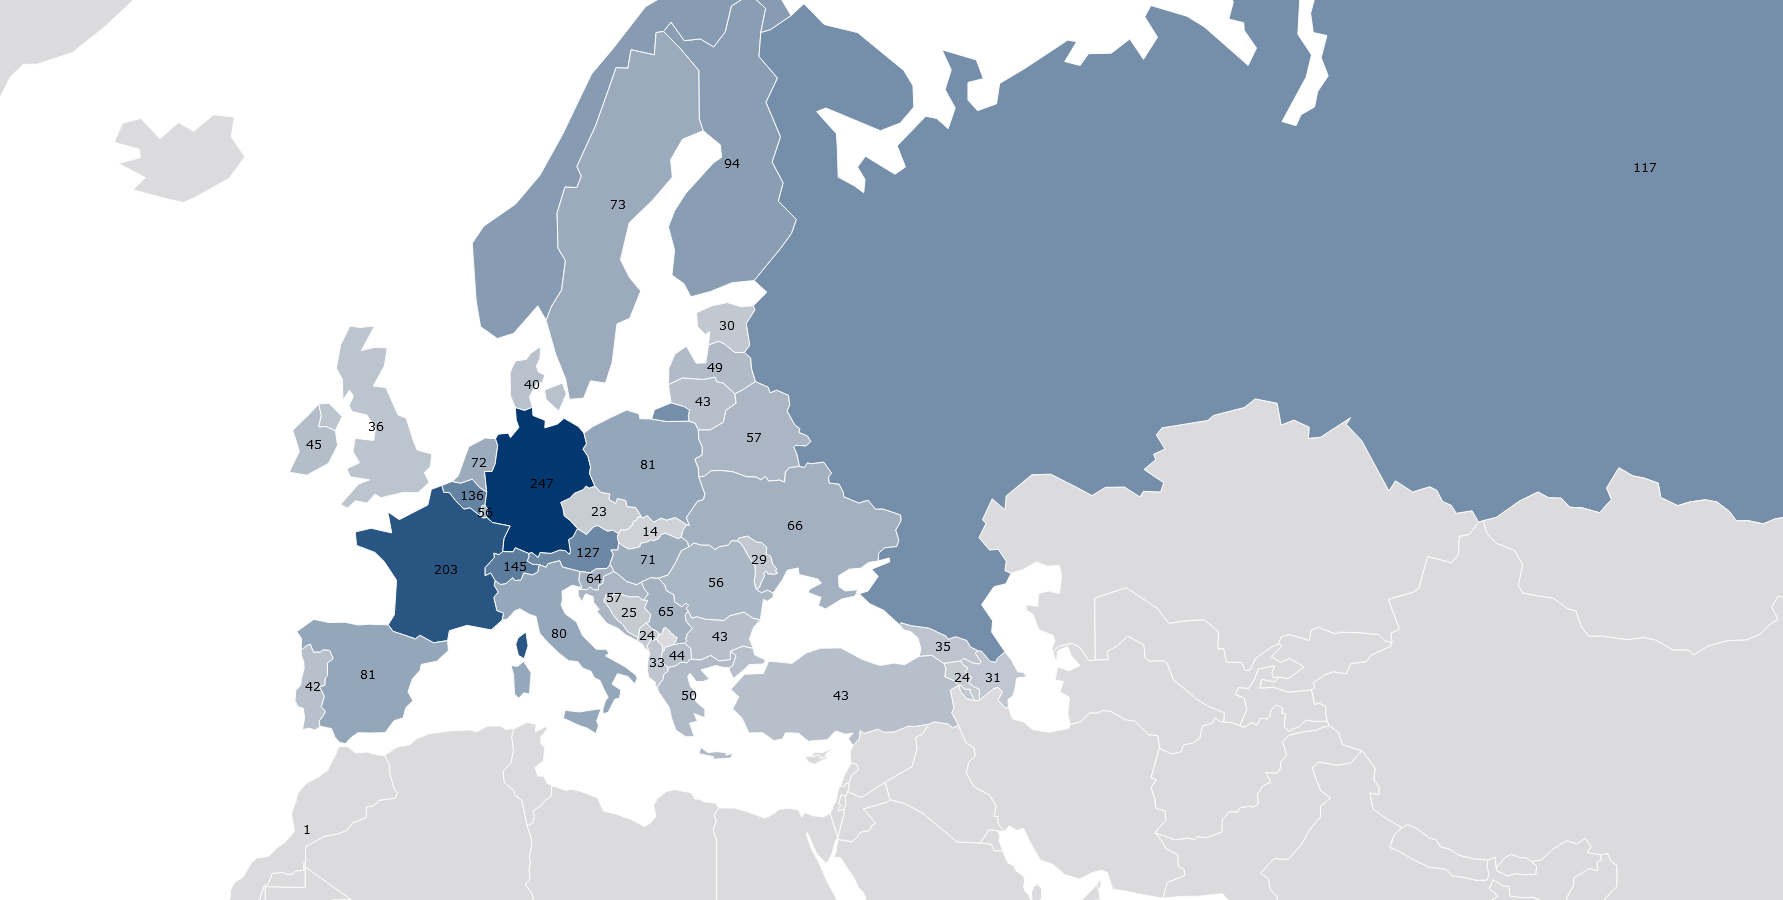
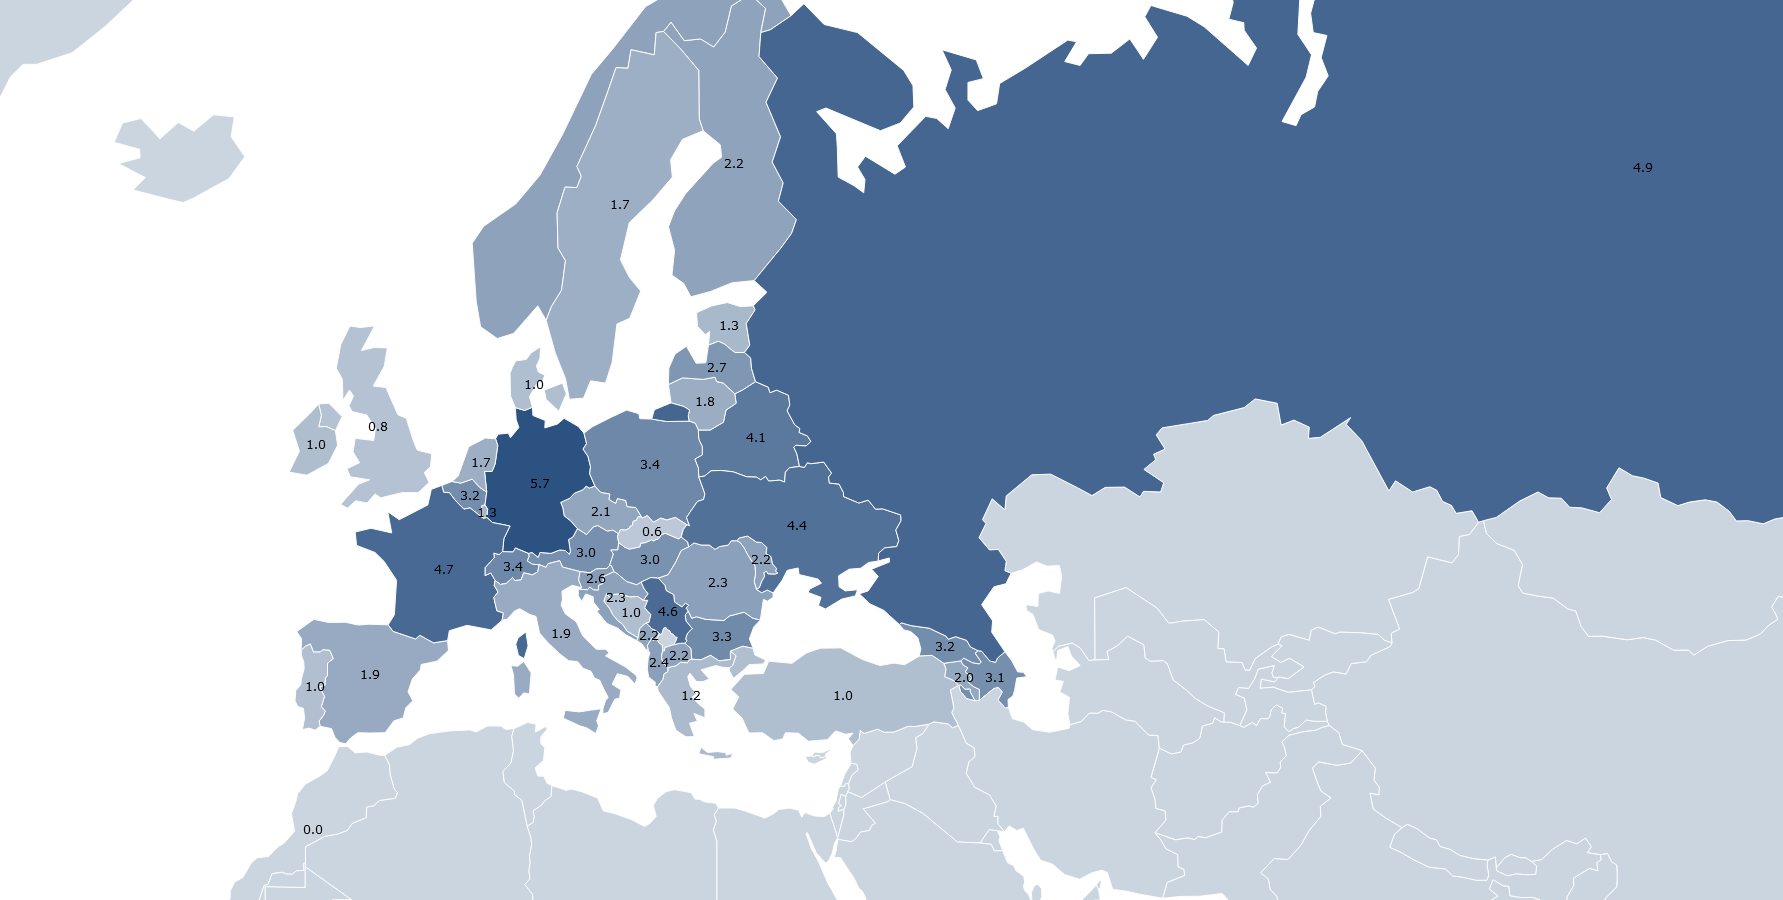
Tweak colors and switch font family

diff --git a/public/index.html b/public/index.html
@@ -4,6 +4,7 @@
   <meta charset="utf-8">
   <meta name="viewport" content="width=device-width">
   <title>Eurovision final votes neighbour data</title>
+  <link rel="stylesheet" href="style.css">
 </head>
 <body>
   <h1># Received Votes from Neighbour countries / Years participating</h1>

diff --git a/public/data.js b/public/data.js
@@ -56,7 +56,7 @@ const maxValue = Math.max.apply(null, values);
 const paletteScale = d3.scale
   .linear()
   .domain([minValue, maxValue])
-  .range(['#DBDBDD', '#02386F']);
+  .range(['#CBD5E0', '#2C5282']);
 
 const dataset = {};
 

diff --git a/public/app.js b/public/app.js
@@ -20,7 +20,7 @@ const map = new Datamap({
   //scope: 'custom',
   setProjection: () => ({ projection, path }),
   fills: {
-    defaultFill: '#DBDBDD'
+    defaultFill: '#CBD5E0'
   },
   data: dataset
 });

diff --git a/public/style.css b/public/style.css
@@ -1,0 +1,3 @@
+body {
+  font-family: -apple-system, BlinkMacSystemFont, 'Segoe UI', Roboto, Oxygen, Ubuntu, Cantarell, 'Open Sans', 'Helvetica Neue', sans-serif;
+}
